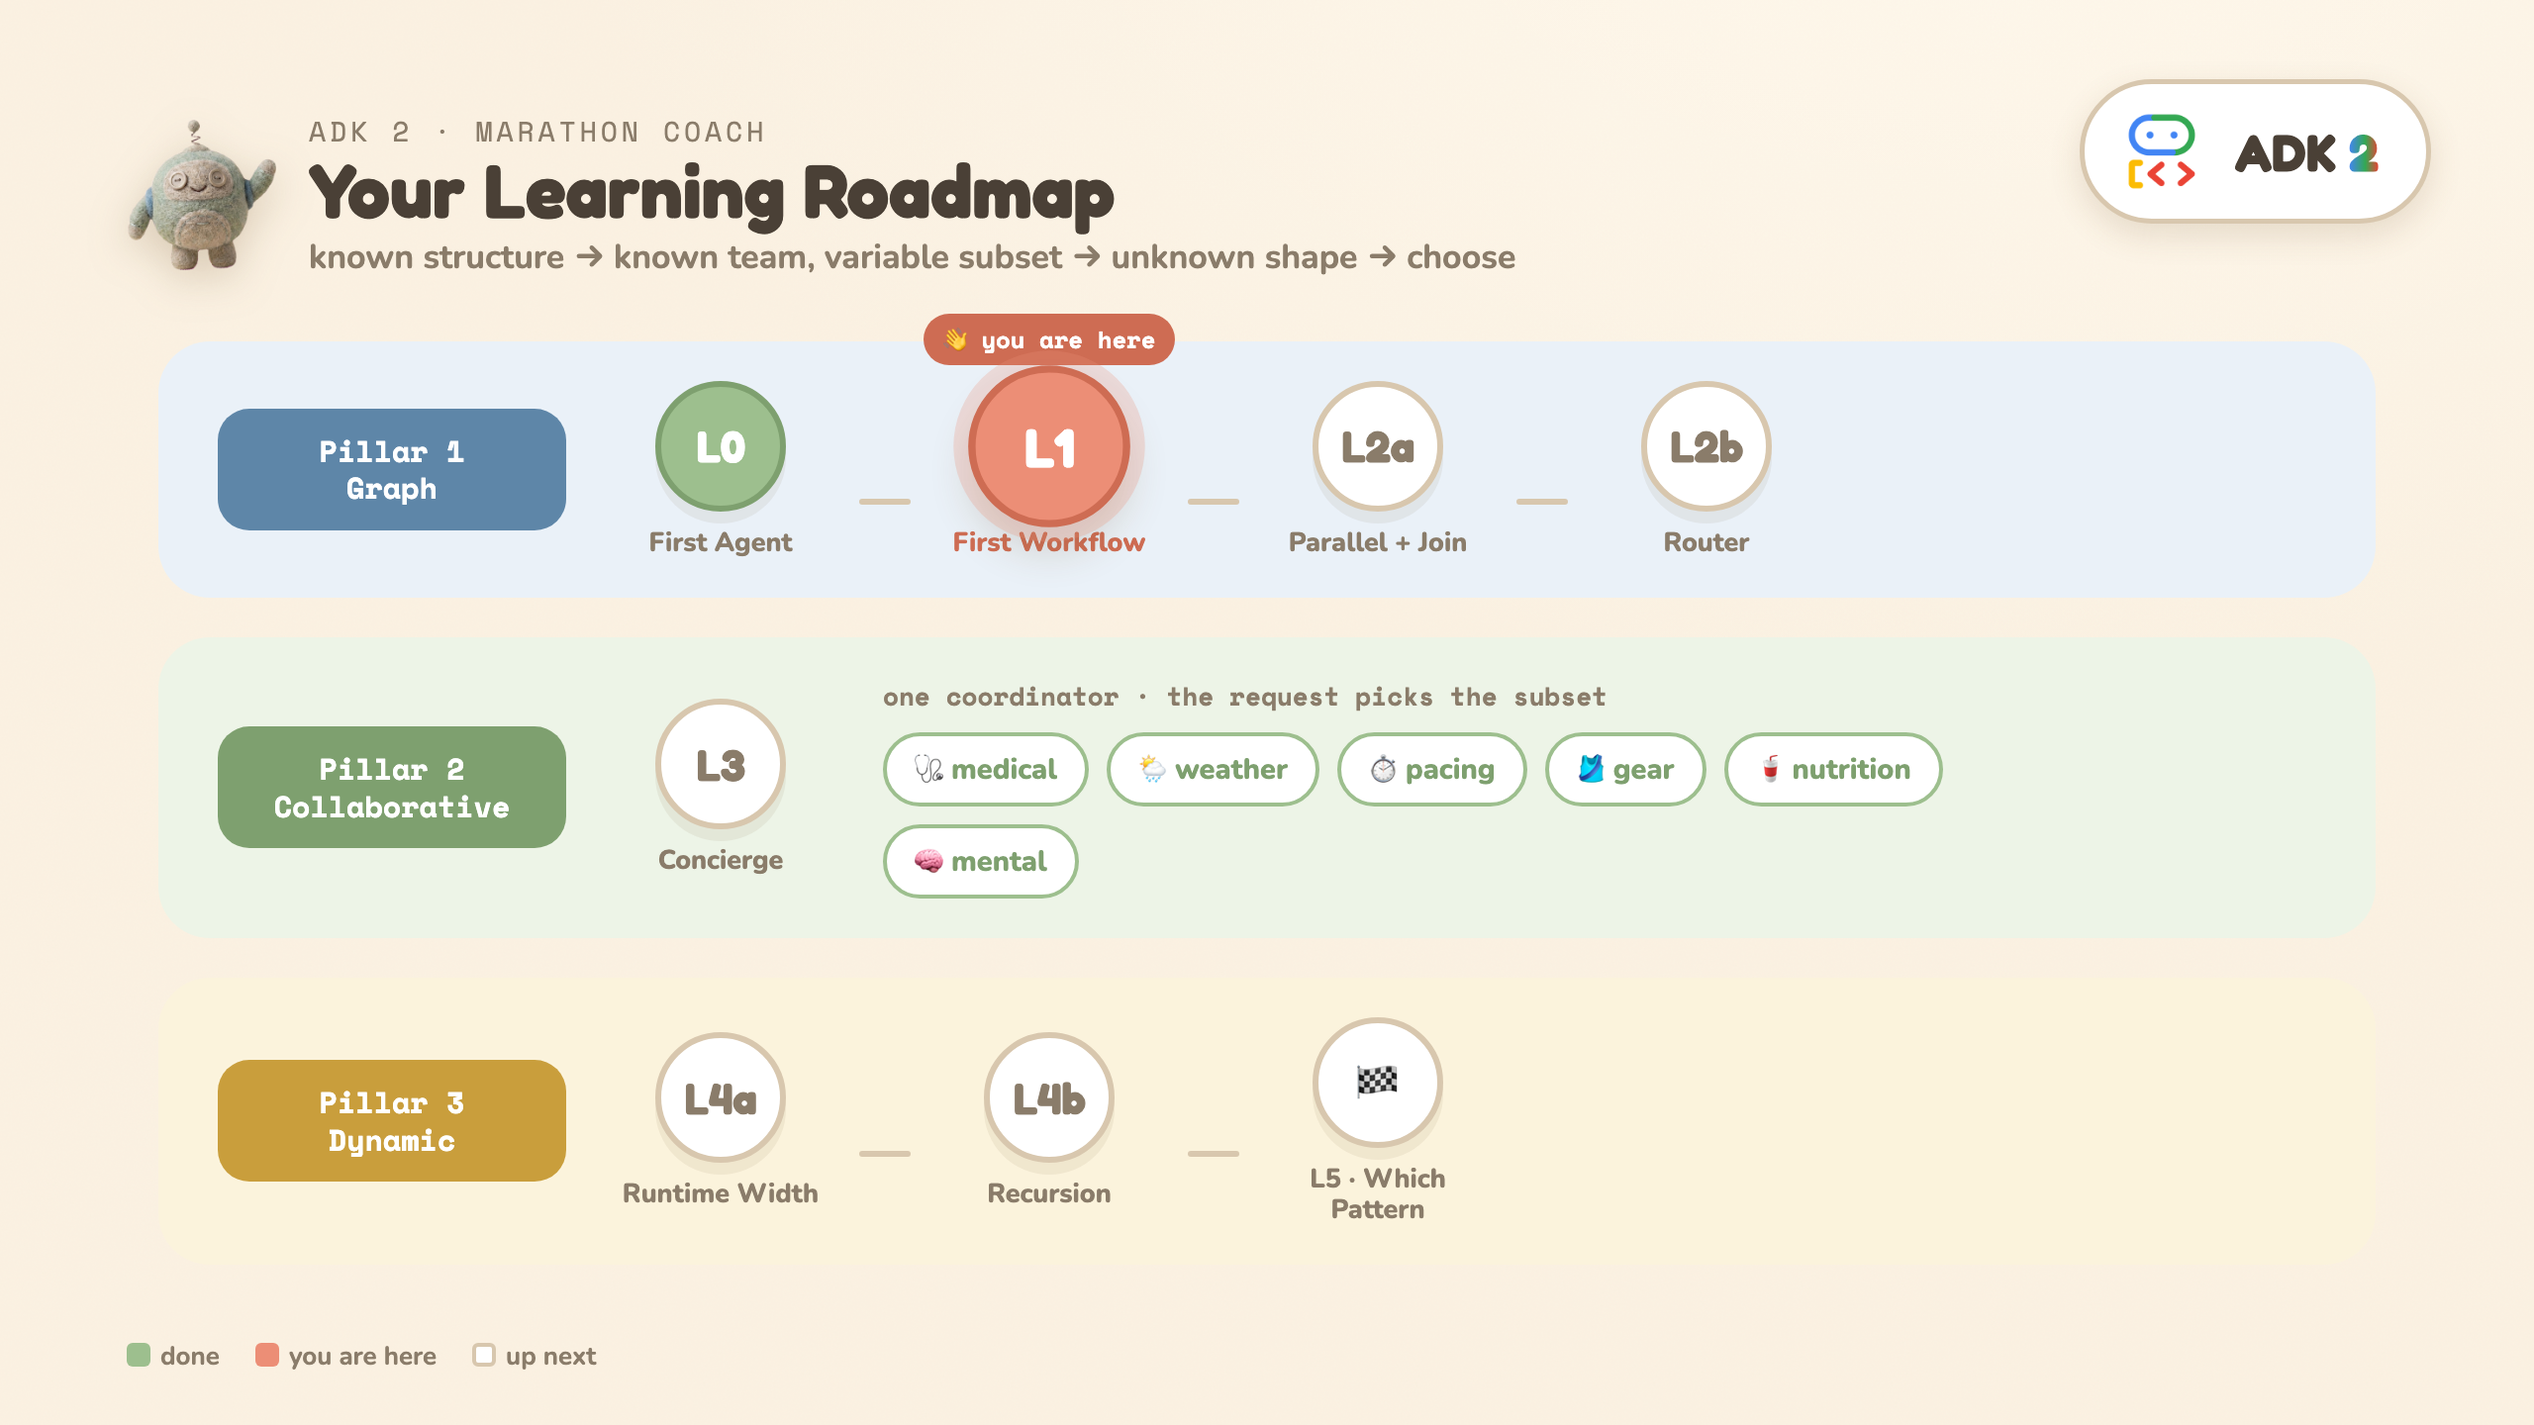
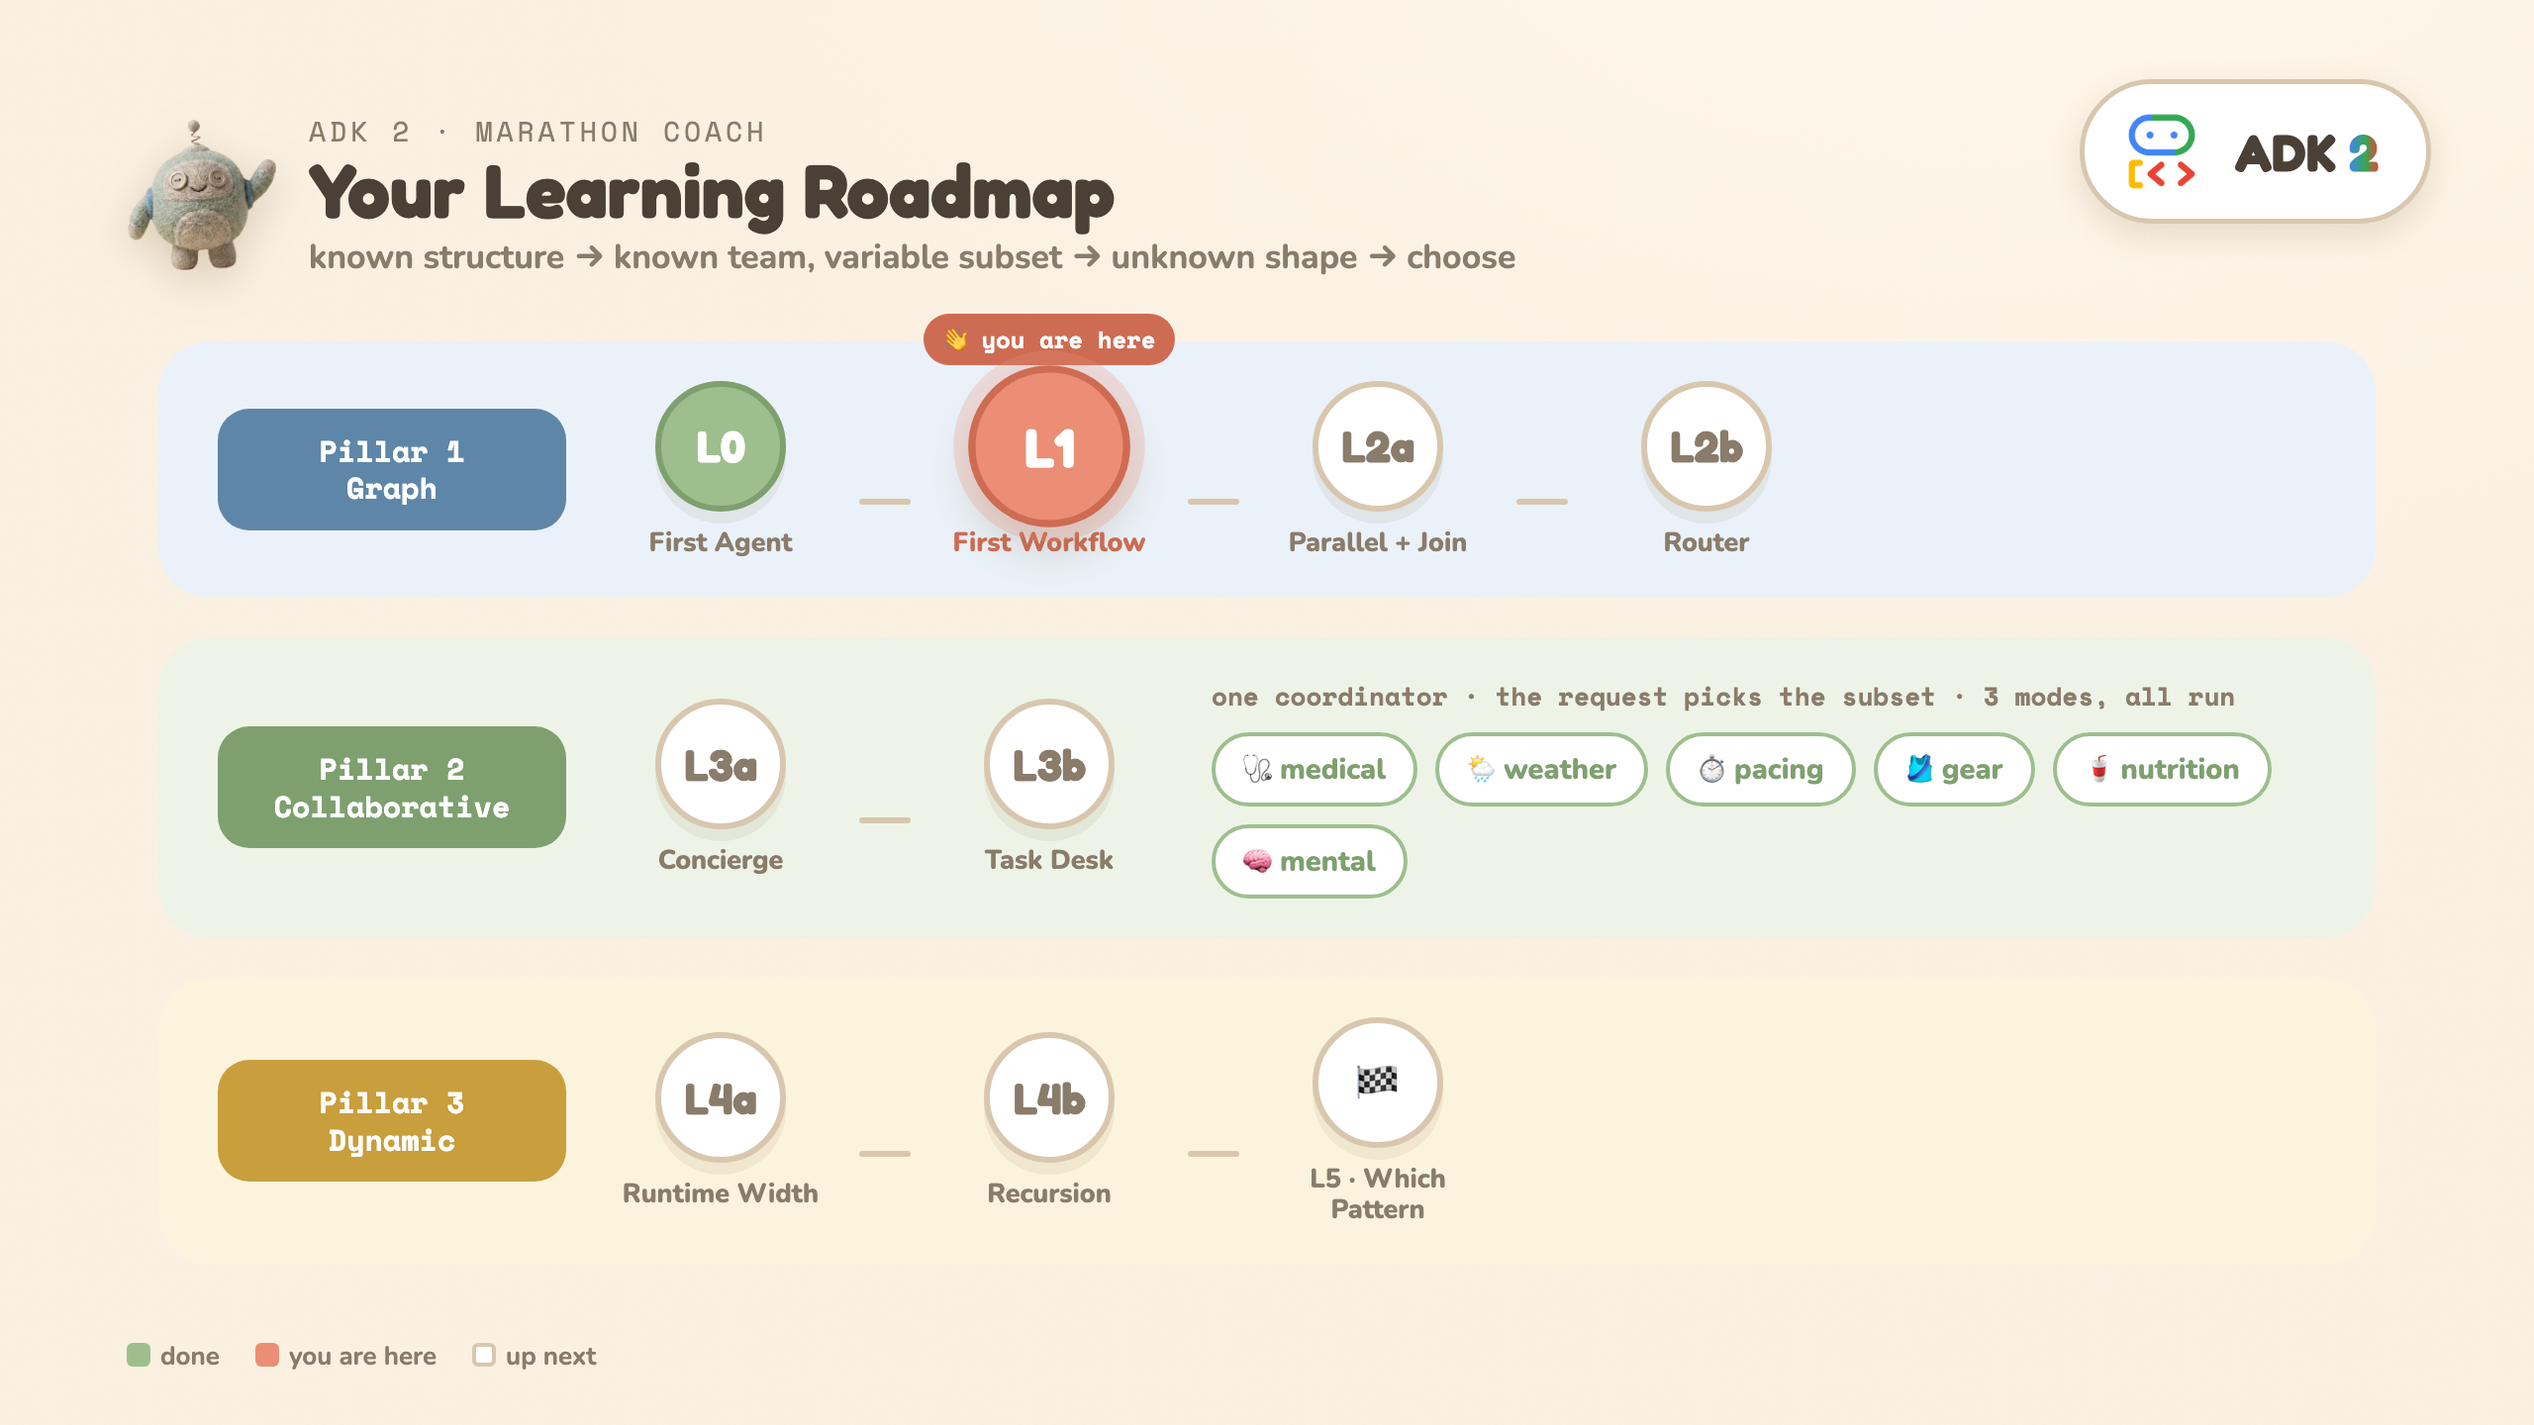
Lab v2: felt images for the 9-rung ladder; purge every stale L3 ref
diagrams.html grows an L3b stop in the Pillar 2 lane, an L3b slide (clarify ->
pause -> resume -> finish_task -> validated return), the L3 slide becomes L3a
('One Flag, Two Worlds'), and the L5 decision table gains the Step 0 prebuilt-
agents row. All 14 frames re-rendered headless at 1280x720@2x (2560x1440,
matching the originals); codelab/img synced; stale roadmap-L3/diagram-l3
removed.

Also caught by the stale-ref sweep: L5's README still claimed 'only one of the
three collaboration modes runs in this lab' - the exact gap this split closed.
It now says the opposite, because it is now true.

Changed region(s): [[0.3438, 0.4688, 0.9062, 0.625], [0.25, 0.5312, 0.3125, 0.5625]]

diff --git a/assets/diagrams.html b/assets/diagrams.html
@@ -115,7 +115,7 @@ th{font-family:'Fredoka';font-size:18px;background:#F6ECDA}
 tr:last-child td{border-bottom:none}
 td .q{font-family:'Space Mono',monospace;font-weight:700}
 .tag{font-family:'Space Mono',monospace;font-size:13px;font-weight:700;color:#fff;padding:4px 12px;border-radius:999px;white-space:nowrap}
-.tag.blue{background:var(--blue-b)} .tag.sage{background:var(--sage-b)} .tag.honey{background:var(--honey-b)}
+.tag.blue{background:var(--blue-b)} .tag.sage{background:var(--sage-b)} .tag.honey{background:var(--honey-b)} .tag.ink{background:var(--ink,#3a3a3a)}
 
 .legend{position:absolute;bottom:26px;left:64px;display:flex;gap:18px;font-size:13px;color:var(--muted);font-weight:700;z-index:3}
 .legend b{display:inline-block;width:12px;height:12px;border-radius:3px;margin-right:5px;vertical-align:-1px}
@@ -151,10 +151,12 @@ td .q{font-family:'Space Mono',monospace;font-weight:700}
       <div class="lane c">
         <div class="lane-lab">Pillar 2<br>Collaborative</div>
         <div class="stops">
-          <div class="stop"><div class="dot">L3</div><div class="lab">Concierge</div></div>
+          <div class="stop"><div class="dot">L3a</div><div class="lab">Concierge</div></div>
+          <div class="connector"></div>
+          <div class="stop"><div class="dot">L3b</div><div class="lab">Task Desk</div></div>
         </div>
         <div class="spec">
-          <div class="cap">one coordinator · the request picks the subset</div>
+          <div class="cap">one coordinator · the request picks the subset · 3 modes, all run</div>
           <div class="chips">
             <span class="chip">🩺 medical</span><span class="chip">🌦 weather</span><span class="chip">⏱ pacing</span>
             <span class="chip">🎽 gear</span><span class="chip">🥤 nutrition</span><span class="chip">🧠 mental</span>
@@ -275,11 +277,11 @@ td .q{font-family:'Space Mono',monospace;font-weight:700}
   </div></div>
 </section>
 
-<!-- ============ L3 ============ -->
-<section class="slide" id="l3">
+<!-- ============ L3a ============ -->
+<section class="slide" id="l3a">
   <div class="brand"><img src="./felt/adk-logo.png" alt="ADK"><span>ADK <b>2</b></span></div>
   <div class="head"><img class="bug" src="./felt/mascot-think.png" alt="">
-    <div><div class="eyebrow">L3 · Pillar 2 · Collaborative</div><h1>The Race Concierge</h1><p class="sub">coordinator picks a dynamic subset, runs it in parallel</p></div></div>
+    <div><div class="eyebrow">L3a · Pillar 2 · Collaborative</div><h1>One Flag, Two Worlds</h1><p class="sub">chat (default) strands the run · single_turn runs the chosen subset in parallel</p></div></div>
   <div class="body"><div class="row">
     <div class="node coral"><div class="t">race_concierge</div><div class="k">coordinator · reads the question</div></div>
     <div class="arrow">⇉</div>
@@ -297,7 +299,28 @@ td .q{font-family:'Space Mono',monospace;font-weight:700}
     <div class="arrow">→</div>
     <div class="node honey"><div class="t">synthesize</div><div class="k">one answer</div></div>
   </div></div>
-  <div class="note">"What about fueling?" → nutrition only &nbsp;·&nbsp; "Should I race today?" → medical + weather + pacing</div>
+  <div class="note">no mode= → transfer_to_agent → stranded, no synthesis &nbsp;·&nbsp; mode="single_turn" → parallel subset → one synthesized answer</div>
+</section>
+
+<!-- ============ L3b ============ -->
+<section class="slide" id="l3b">
+  <div class="brand"><img src="./felt/adk-logo.png" alt="ADK"><span>ADK <b>2</b></span></div>
+  <div class="head"><img class="bug" src="./felt/mascot-point.png" alt="">
+    <div><div class="eyebrow">L3b · Pillar 2 · Collaborative</div><h1>Task Mode: a Conversation with a Finish Line</h1><p class="sub">clarify → pause → resume → finish_task → validated return</p></div></div>
+  <div class="body"><div class="row">
+    <div class="node ink"><div class="t">"I need shoes"</div><div class="k">turn 1</div></div>
+    <div class="arrow">→</div>
+    <div class="node coral"><div class="t">race_desk</div><div class="k">delegates</div></div>
+    <div class="arrow">→</div>
+    <div class="stack"><div class="cap">gear_fitter · mode="task"</div>
+      <div class="node sage sm"><div class="t">"What size?"</div><div class="k">⏸ run ends — paused task</div></div>
+      <div class="node sage sm"><div class="t">"Size 9, wide."</div><div class="k">turn 2 resumes it</div></div>
+      <div class="node sage sm"><div class="t">finish_task</div><div class="k">validates GearOrder</div></div>
+    </div>
+    <div class="arrow">→</div>
+    <div class="node honey"><div class="t">race_desk confirms</div><div class="k">auto-return</div></div>
+  </div></div>
+  <div class="note">chat = talk indefinitely · task = talk until the fields are collected · single_turn = never talk</div>
 </section>
 
 <!-- ============ L4a ============ -->
@@ -353,8 +376,9 @@ td .q{font-family:'Space Mono',monospace;font-weight:700}
     <div><div class="eyebrow">L5 · the finish line</div><h1>Which Pattern Should You Use?</h1><p class="sub">match the pattern to the shape of your problem</p></div></div>
   <div class="body"><table>
     <tr><th>Ask yourself…</th><th>Then use…</th><th>Levels</th></tr>
+    <tr><td><span class="q">Would a prebuilt Sequential / Parallel / Loop agent do?</span></td><td><span class="tag ink">Step 0 · use it — no graph needed</span></td><td>—</td></tr>
     <tr><td><span class="q">Can you draw the flow before the input arrives?</span></td><td><span class="tag blue">Pillar 1 · Graph workflow</span></td><td>L2a · L2b</td></tr>
-    <tr><td><span class="q">Known team, but the request picks the subset?</span></td><td><span class="tag sage">Pillar 2 · Collaborative</span></td><td>L3</td></tr>
+    <tr><td><span class="q">Known team, but the request picks the subset?</span></td><td><span class="tag sage">Pillar 2 · Collaborative</span></td><td>L3a · L3b</td></tr>
     <tr><td><span class="q">Does the shape itself depend on the input?</span></td><td><span class="tag honey">Pillar 3 · Dynamic</span></td><td>L4a · L4b</td></tr>
   </table></div>
   <div class="note">Not "2.0 can do what 1.x couldn't" — 2.0 gives each shape a more direct home. And they compose.</div>

diff --git a/L5_capstone/README.md b/L5_capstone/README.md
@@ -9,7 +9,7 @@ That's the one question the three pillars actually answer. Everything else follo
 | Pillar | Who decides what runs next | Built in |
 |---|---|---|
 | **1 · Graph** | **the graph you drew** | L2a / L2b |
-| **2 · Collaborative** | **the LLM** | L3 |
+| **2 · Collaborative** | **the LLM** | L3a / L3b |
 | **3 · Dynamic** | **your Python code, at runtime** | L4a / L4b |
 
 ## Step 0: do you even need a graph?
@@ -36,7 +36,7 @@ Would a prebuilt SequentialAgent / ParallelAgent / LoopAgent do?
    │
    └─ NO
       │
-      ├─ Known team, request picks the subset? ─► Pillar 2 · Collaborative  (L3)
+      ├─ Known team, request picks the subset? ─► Pillar 2 · Collaborative  (L3a/L3b)
       │                                            the LLM decides
       │
       └─ Does the shape itself depend on input? ─► Pillar 3 · Dynamic       (L4a/L4b)
@@ -54,7 +54,7 @@ This is **not** "2.0 can do things 1.x couldn't" — 1.x could build all of it. 
 | Pattern | The common 1.x way | What it cost you | The ADK 2 home |
 |---|---|---|---|
 | **Graph** (L2a/L2b) | most builds wrapped each step as an `LlmAgent` (a `BaseAgent` subclass could avoid it, but you wrote the plumbing) | **4 LLM calls** in the common version, and routing hidden in a prompt | function nodes + agent nodes as peers → **1 LLM call**, `if`-statement router |
-| **Collaborative** (L3) | wrap each specialist in `AgentTool` and let the coordinator call them (`ParallelAgent` is always-all; `transfer_to_agent` is serial) | the shape worked, but as hand-assembled tool plumbing rather than a declared team | `sub_agents` + `mode="single_turn"` — the subset and its parallelism are **declared**, not assembled |
+| **Collaborative** (L3a/L3b) | wrap each specialist in `AgentTool` and let the coordinator call them (`ParallelAgent` is always-all; `transfer_to_agent` is serial) | the shape worked, but as hand-assembled tool plumbing rather than a declared team | `sub_agents` + `mode="single_turn"` — the subset and its parallelism are **declared**, not assembled |
 | **Dynamic** (L4a/L4b) | `ParallelAgent` (fixed list), `LoopAgent` (serial), or raw `asyncio` | recursion was buildable, but it dropped you out of the framework (lose tracing/checkpointing) | `parallel_worker` + recursive `ctx.run_node`, all inside the framework |
 
 ## They compose
@@ -73,16 +73,16 @@ The three patterns are **not mutually exclusive**. A graph node can call a colla
 
 ## What this lab did NOT teach you
 
-Eight rungs, one app, ~30 minutes — so the scope is deliberate. Three things you'll meet in real ADK 2 work that aren't here:
+Nine rungs, one app, ~40 minutes — so the scope is deliberate. Three things you'll meet in real ADK 2 work that aren't here:
 
 - **Loops.** The lab does runtime *width* (L4a) and *depth* (L4b), but never iteration. The canonical dynamic-workflow shape is generate → review → fix in a `while` loop, and it's arguably the one you'll build most. → [`07_loop`](https://github.com/cuppibla/adk-workflows-compared/tree/main/examples/07_loop), [`08_loop_self`](https://github.com/cuppibla/adk-workflows-compared/tree/main/examples/08_loop_self)
-- **Human input.** Pausing a workflow for approval via `RequestInput` — nothing here does it. → [`17_request_input`](https://github.com/cuppibla/adk-workflows-compared/tree/main/examples/17_request_input)
+- **Graph-workflow human input.** Pausing a *graph* for approval via `RequestInput` — L3b's paused `task` is the collaborative cousin, not the graph node. → [`17_request_input`](https://github.com/cuppibla/adk-workflows-compared/tree/main/examples/17_request_input)
 - **Resumability, actually demonstrated.** L4b *tells* you recursion stays inside the framework so you keep tracing and checkpointing — true, but you never see it interrupt and resume. Take that one on faith here, and go watch it work elsewhere.
 
-Also: only one of the three collaboration modes (`single_turn`) runs in this lab — see [L3](../L3_collaborative/).
+All **three collaboration modes now run in this lab**: [L3a](../L3a_collaborative/) runs `chat` (and watches it strand) then `single_turn`; [L3b](../L3b_task_desk/) runs `task` with a genuine pause/resume and `finish_task`.
 
 All of the above live in the companion repo, [**adk-workflows-compared**](https://github.com/cuppibla/adk-workflows-compared): 23 official ADK 2 samples, each with a 1.x port and when-to-use guidance.
 
 ## Where to go next
-- Re-run any level with a different scenario (`MARATHON_SCENARIO=COLD python -m L2b_router.workflow`) or a different question (`python -m L3_collaborative.concierge "what about fueling?"`) and watch the shape change.
-- Try porting your OWN problem: which parts are known-structure (L2a/L2b), which are known-team (L3), which are unknown-shape (L4a/L4b)?
+- Re-run any level with a different scenario (`MARATHON_SCENARIO=COLD python -m L2b_router.workflow`) or a different question (`python -m L3a_collaborative.concierge "what about fueling?"`), a chat-mode strand (`--mode chat`), a different task intake (`python -m L3b_task_desk.desk "I need a hydration vest" --reply "2 liters, medium"`), and watch the shape change.
+- Try porting your OWN problem: which parts are known-structure (L2a/L2b), which are known-team (L3a/L3b), which are unknown-shape (L4a/L4b)?

diff --git a/L2b_router/README.md b/L2b_router/README.md
@@ -33,4 +33,4 @@ python -m L2b_router.workflow COLD      # Chicago, 35°F
 
 > **Where ADK 2 gives this a direct home:** 1.x could reach 1 call too — via a custom `BaseAgent` subclass — but only if you wrote the orchestration plumbing yourself, so most builds wrapped each step as an agent and paid 4. Here a plain function and an `if`-statement are first-class nodes.
 
-→ **Next:** [L3](../L3_collaborative/) — when the *request* (not you) decides which specialists run.
+→ **Next:** [L3a](../L3a_collaborative/) — when the *request* (not you) decides which specialists run.
